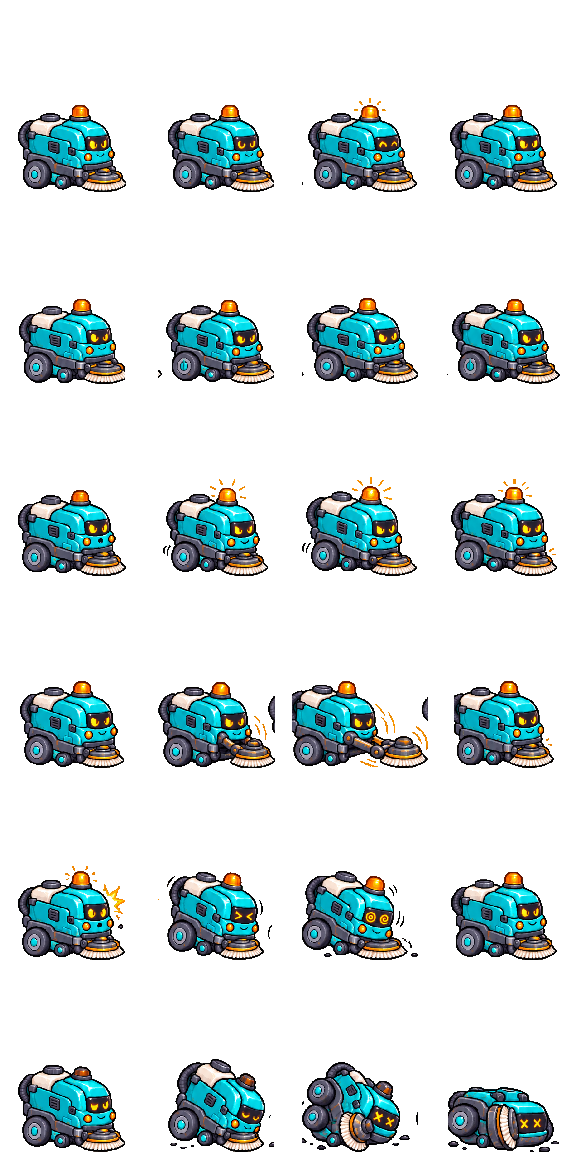
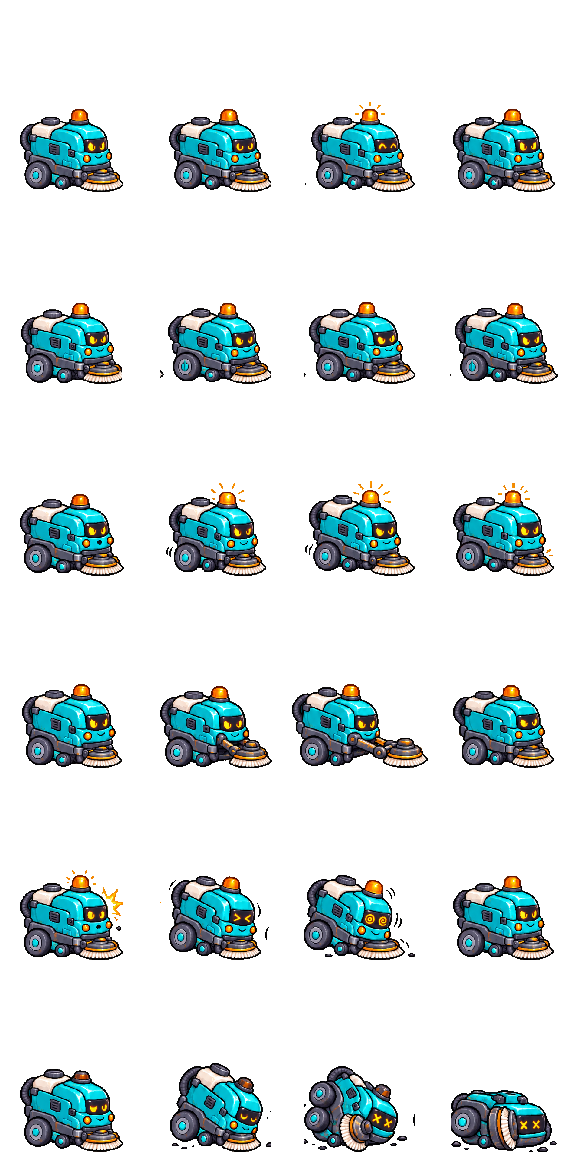
fix(robot): separate complete approved silhouettes and preserve lossless render evidence

diff --git a/lib/main.dart b/lib/main.dart
@@ -1537,7 +1537,7 @@ class StagePainter extends CustomPainter {
               : ((foe.t*7).floor()%4);
           const cellW=144.0,cellH=192.0;
           final source=Rect.fromLTWH(frame*cellW,pose*cellH,cellW,cellH);
-          final visibleHeight=kind=='robot'?87.0:kind=='supporter'?135.0:132.0;
+          final visibleHeight=kind=='robot'?83.0:kind=='supporter'?135.0:132.0;
           final targetHeight=kind=='robot'?80.0:140.0;
           final h=targetHeight*cellH/visibleHeight;
           final w=h*cellW/cellH;

diff --git a/tools/build_approved_enemy_art.py b/tools/build_approved_enemy_art.py
@@ -4,19 +4,40 @@ nearest-neighbour reduction. Generated poses: none. Alpha cleanup only.
 """
 from pathlib import Path
 import hashlib,json
-from PIL import Image
+from PIL import Image,ImageDraw,ImageChops
 ROOT=Path(__file__).resolve().parents[1]
 SPECS={
[2 lines of base64/hex data omitted]
+def robot_attack_parts(image):
+ # Adjacent silhouettes overlap in X, but do not touch in the approved RGBA.
+ # Rectangular column cuts imported parts of the next robot and clipped pipes.
+ row=image.crop((0,750,1024,990))
+ remaining=row.getchannel('A').point(lambda a:255 if a>=128 else 0)
+ parts=[]
+ while remaining.getbbox():
+  pixels=remaining.load(); box=remaining.getbbox()
+  seed=next((x,y) for y in range(box[1],box[3]) for x in range(box[0],box[2]) if pixels[x,y])
+  flood=remaining.copy();ImageDraw.floodfill(flood,seed,128)
+  component=flood.point(lambda a:255 if a==128 else 0)
+  remaining=ImageChops.subtract(remaining,component)
+  if component.histogram()[255]>10000:
+   frame=row.copy();frame.putalpha(component)
+   bb=component.getbbox();parts.append((bb,frame.crop(bb)))
+ assert len(parts)==4,'Expected four complete robot attack silhouettes'
+ return sorted(parts,key=lambda p:p[0][0])
+
 def build(kind):
  name,ys,cell,order,expected=SPECS[kind]
  src=ROOT/'qa/enemy_art_20261031'/name
  assert hashlib.sha256(src.read_bytes()).hexdigest()==expected,'Approved source changed'
  im=Image.open(src).convert('RGBA')
  frames=[]; rects=[]
+ attack=robot_attack_parts(im) if kind=='robot' else None
  for r in order:
   for c in range(4):
+   if kind=='robot' and r==3:
+    bb,f=attack[c];frames.append(f);rects.append(['connected_silhouette',bb]);continue
    xs=[0,240,500,800,1024] if kind=='robot' and r==3 else [0,256,512,768,1024]
    box=(xs[c],ys[r],xs[c+1],ys[r+1]); f=im.crop(box)
    # Residual backdrop alpha is near zero; preserve RGB, make pixel edges binary.

diff --git a/qa/enemy_art_20261031/ROBOT_EXTRACTION_FIX.md b/qa/enemy_art_20261031/ROBOT_EXTRACTION_FIX.md
@@ -1,0 +1,9 @@
+# Corrección de separación del robot, 2026-11-01
+
+La inspección ampliada de la animación real encontró una pequeña porción del robot vecino en el segundo ataque. La hoja aprobada tiene siluetas que se solapan horizontalmente pero no se tocan: un recorte rectangular no sirve. Se separan las cuatro componentes completas de esa fila con alfa>=128, sin dibujar ni modificar colores. Se excluyen trazos decorativos sueltos. La fuente aprobada y su hash permanecen intactos.
+
+Las cuatro siluetas completas miden hasta 314 px de ancho. Factor uniforme nuevo: 136/314=0.4331210191. Altura opaca de reposo derivada: 83 px; motor usa 80/83 para conservar 80 unidades de altura visible. Pies y proporciones se mantienen. Atlas y manifiesto actualizados; el importador reproduce exactamente el PNG y la prueba de hashes detecta sustituciones.
+
+La paleta única de los GIF ahorra aproximadamente 88% del tamaño anterior, pero altera algunos colores. Se conserva como previsualización comprimida y se añade animación WebP SIN PÉRDIDA para revisión artística fiel a los píxeles del motor. Las fuentes PNG nunca se reducen a una paleta GIF.
+
+Última prueba previa: 41317042039 SUCCESS (21 PNG protegidos, análisis Flutter, 20 encuentros reales y 240 muestras de motor). Se repite la verificación después de esta corrección. No APK ni publicación.
